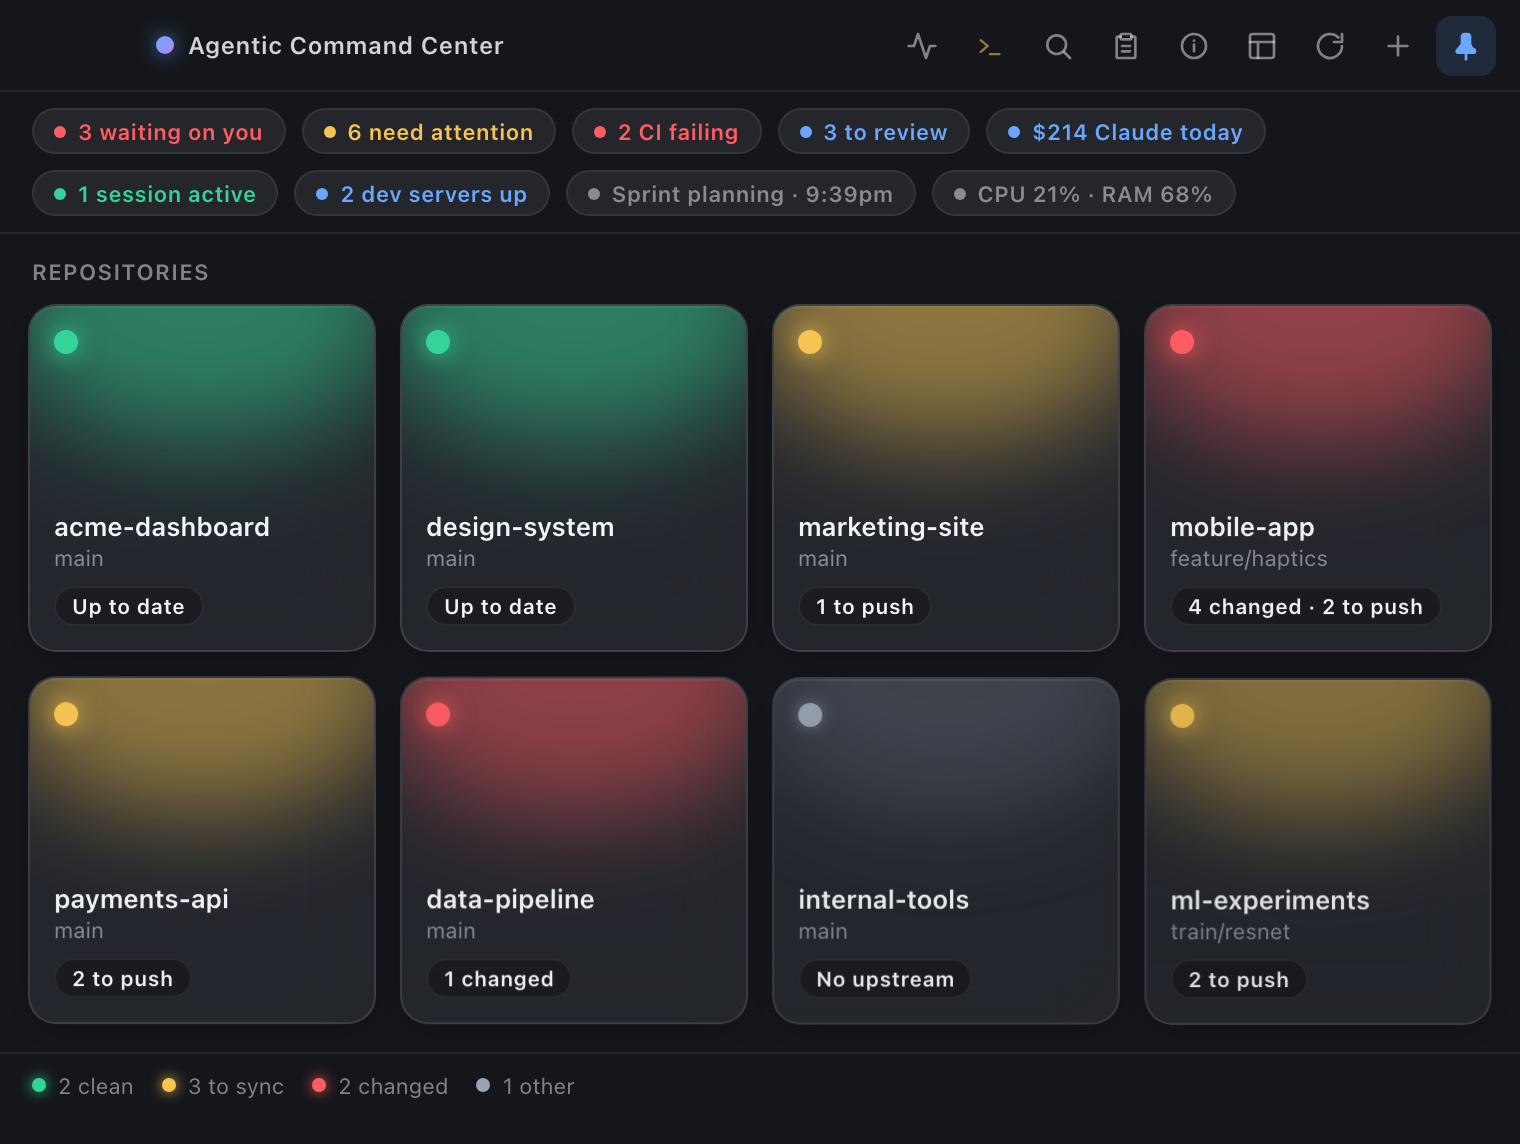
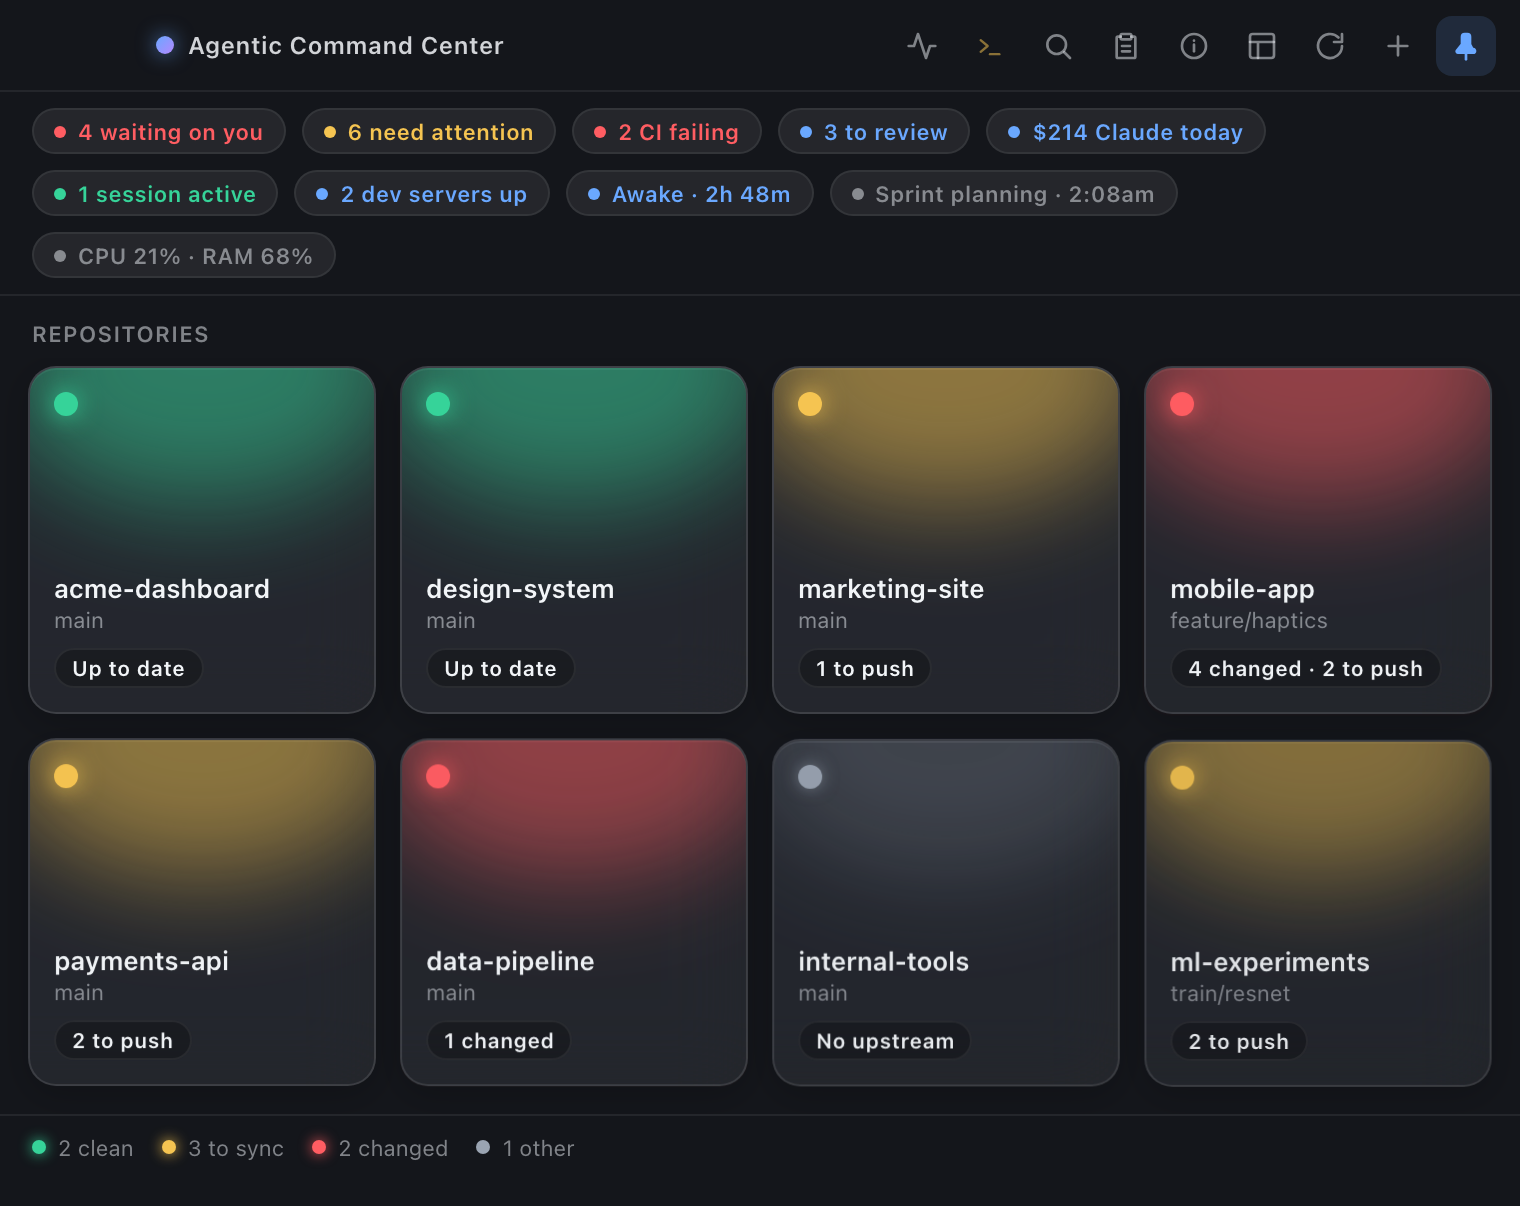
feat(awake): click the health-bar Awake chip to open the awake popover
The Awake / 'Awake restore pending' chip is now a button that opens the
corner popover. README documents the awake palette commands and the
clickable chip; the compact-view and command-palette screenshots are
recaptured to show the chip and the new commands.

diff --git a/src/renderer/src/components/HealthBar.tsx b/src/renderer/src/components/HealthBar.tsx
@@ -22,6 +22,8 @@ interface Props {
   agentsWaiting?: number
   /** Keep-awake session, shown as a chip while one runs. */
   awake?: AwakeState | null
+  /** Open the bottom-right awake popover (the Awake chip is clickable). */
+  onOpenAwake?: () => void
 }
 
 function nextEvent(calendar: CalendarData | null): string | null {
@@ -44,6 +46,8 @@ interface Chip {
   tone: 'red' | 'amber' | 'accent' | 'green' | 'muted'
   label: string
   title: string
+  /** Makes the chip a button (e.g. Awake opens the awake popover). */
+  onClick?: () => void
 }
 
 export default function HealthBar({
@@ -54,7 +58,8 @@ export default function HealthBar({
   system,
   calendar,
   agentsWaiting = 0,
-  awake = null
+  awake = null,
+  onOpenAwake
 }: Props): JSX.Element {
   const attention = statuses.filter((s) => deriveState(s).needsAttention).length
   const ciFail = Object.values(insights).filter((i) => i.ci === 'fail').length
@@ -124,14 +129,16 @@ export default function HealthBar({
       title:
         `Mac held awake until ${endLabel(ends)}` +
         (awake.mode === 'lid' ? ', lid closed included' : ' — only while the lid is open') +
-        ' (bottom-right corner to change)'
+        ' — click to add time or end',
+      onClick: onOpenAwake
     })
   } else if (awake?.restorePending) {
     chips.push({
       key: 'awake',
       tone: 'amber',
       label: 'Awake restore pending',
-      title: "An earlier awake session's changes are not all undone — open the corner awake panel"
+      title: "An earlier awake session's changes are not all undone — click to finish restoring",
+      onClick: onOpenAwake
     })
   }
 
@@ -155,10 +162,22 @@ export default function HealthBar({
         <span className="health-chip tone-muted">No repositories imported yet</span>
       ) : (
         chips.map((c) => (
-          <span key={c.key} className={`health-chip tone-${c.tone}`} title={c.title}>
-            <span className="health-dot" />
-            {c.label}
-          </span>
+          c.onClick ? (
+            <button
+              key={c.key}
+              className={`health-chip health-chip-btn tone-${c.tone}`}
+              title={c.title}
+              onClick={c.onClick}
+            >
+              <span className="health-dot" />
+              {c.label}
+            </button>
+          ) : (
+            <span key={c.key} className={`health-chip tone-${c.tone}`} title={c.title}>
+              <span className="health-dot" />
+              {c.label}
+            </span>
+          )
         ))
       )}
     </div>

diff --git a/src/renderer/src/awake.css b/src/renderer/src/awake.css
@@ -767,3 +767,17 @@
   margin: 0;
   color: #ffe2a3;
 }
+
+/* The health-bar Awake chip is a button that opens the popover. */
+.health-chip-btn {
+  font: inherit;
+  font-size: 11px;
+  font-weight: 600;
+  cursor: pointer;
+  transition: background 0.15s ease, border-color 0.15s ease;
+}
+
+.health-chip-btn:hover {
+  background: var(--glass-strong);
+  border-color: var(--hairline);
+}

diff --git a/src/renderer/src/App.tsx b/src/renderer/src/App.tsx
@@ -531,6 +531,7 @@ export default function App(): JSX.Element {
         calendar={calendar}
         agentsWaiting={agentsWaiting}
         awake={awake}
+        onOpenAwake={() => setAwakeOpen(true)}
       />
 
       <h2 className="section-title">Repositories</h2>

diff --git a/README.md b/README.md
@@ -234,7 +234,7 @@ A live, one-line summary directly under the toolbar. Each chip only appears when
 - **N dev servers up** — running local servers mapped to an imported repo.
 - **Awake · 2h 48m** — an [awake session](#awake-sessions-keep-the-mac-awake) is holding the Mac
   awake (blue = lid-close safe, amber = lid open only); *Awake restore pending* flags an unfinished
-  restore.
+  restore. Click it to open the awake popover.
 - **&lt;event&gt; · time** — your next calendar event today.
 - **CPU x% · RAM y%** — system load (1-minute average) and memory use.
 
@@ -284,11 +284,13 @@ sync. Useful when you want a denser overview.
 
 Press **⌘K** (or the 🔍 button) for a fuzzy-searchable list. It includes **every action** — Import,
 Scan folder, Standup, Refresh, toggle view, Export/Import settings — plus per-repo **Start Claude
-session / Open in editor / Reveal in Finder / Open on GitHub** entries, so you can drive the whole
-app from the keyboard.
+session / Open in editor / Reveal in Finder / Open on GitHub** entries, and the
+[awake-session](#awake-sessions-keep-the-mac-awake) shortcuts — **Keep Mac awake for 1h / 4h / 8h**,
+or **Keep awake 1 hour longer** and **End awake session** while one runs — so you can drive the
+whole app from the keyboard.
 
 <p align="center">
-  <img src="docs/screenshot-command-palette.png" alt="Command palette showing searchable list of actions and repos" width="420" />
+  <img src="docs/screenshot-command-palette.png" alt="Command palette showing a searchable list of actions — import, scan, standup, refresh, view toggle, the awake-session commands (keep awake 1 hour longer, end awake session, awake session…), and settings export/import" width="420" />
 </p>
 
 ### Standup digest
